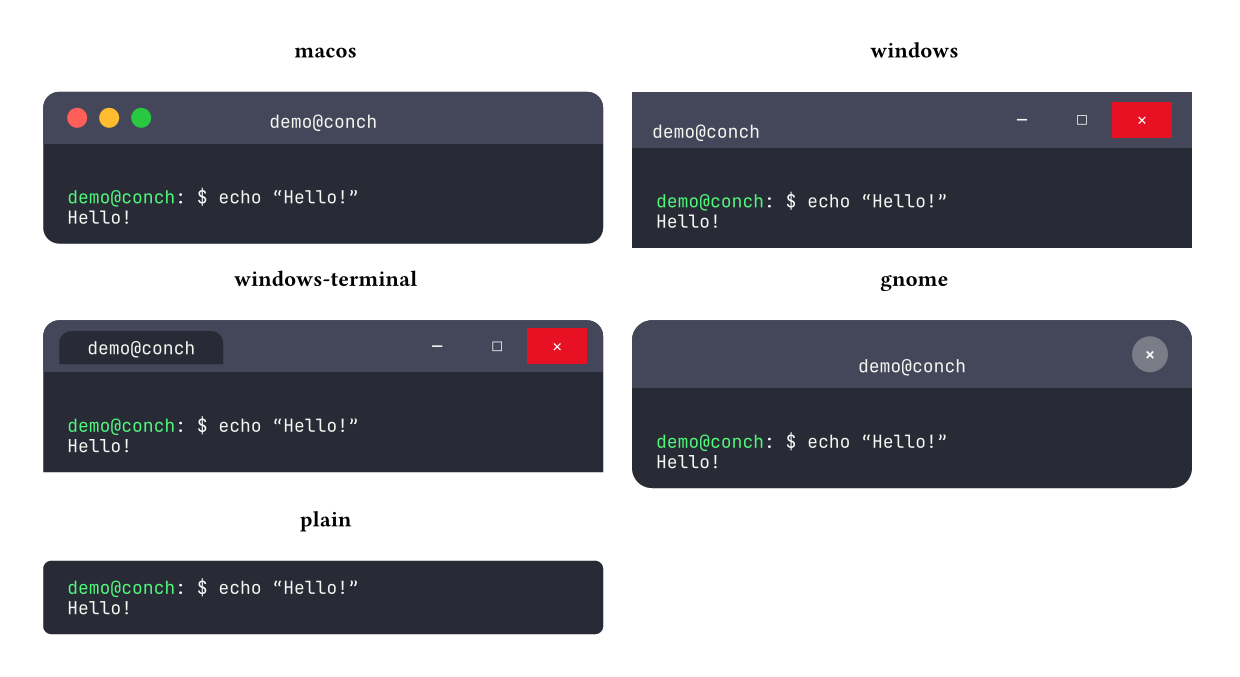
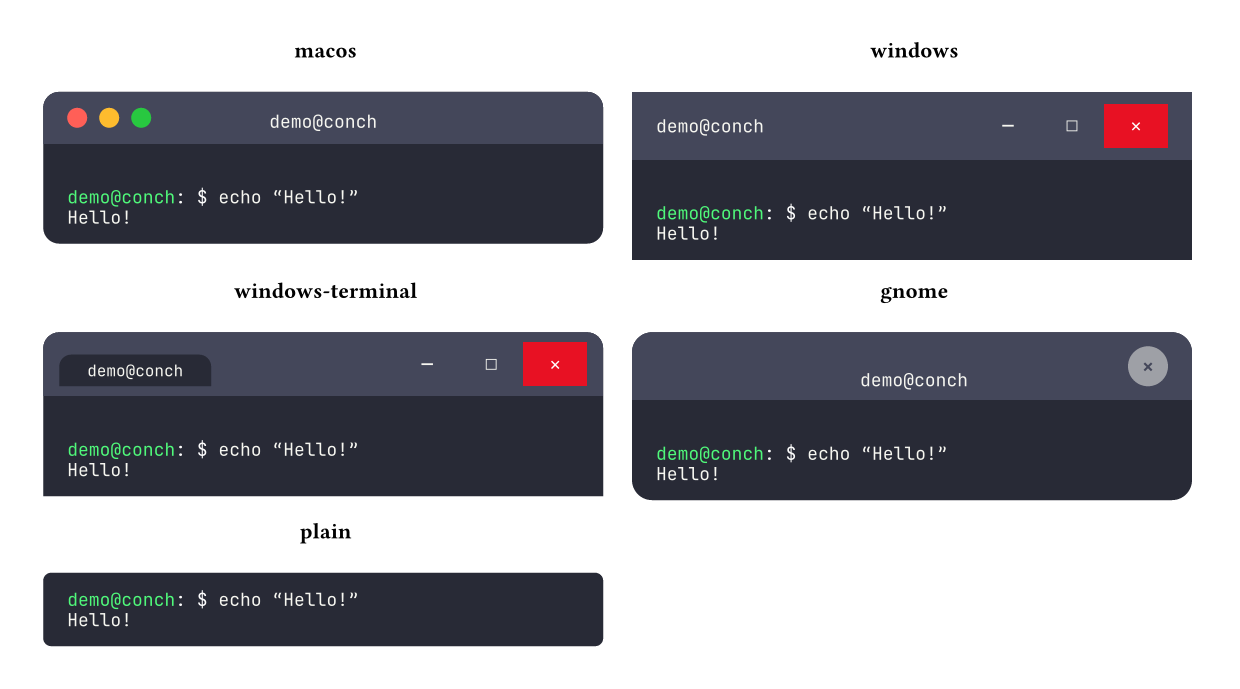
fix: robust fixed-height scroll with grid layout + inset-aware snapping
Replace the title-h/2 hack with grid(rows: auto, 1fr) + layout() so
Typst computes exact remaining space for the body. Account for the
body block's 10pt inset in scroll snapping with -2pt fine-tuning.
Works correctly across all chrome styles including plain (no title bar).

diff --git a/README.md b/README.md
@@ -522,8 +522,8 @@ Content splits at command boundaries — each entry (prompt + output) stays toge
 
 ### Functions
 
-| Function                                                                                         | Description                                                                                                                       |
-| ------------------------------------------------------------------------------------------------ | --------------------------------------------------------------------------------------------------------------------------------- |
+| Function                                                                                                 | Description                                                                                                                       |
+| -------------------------------------------------------------------------------------------------------- | --------------------------------------------------------------------------------------------------------------------------------- |
 | `terminal-frame(body, title, theme, font, chrome, width, height)`                                        | Themed terminal window chrome                                                                                                     |
 | `render-ansi(body, theme)`                                                                               | ANSI escape sequence renderer                                                                                                     |
 | `terminal(body, user, hostname, theme, font, chrome, width, height, files, show-cursor, overflow)`       | Standalone page shell simulator (show rule; sets page dimensions)                                                                 |
